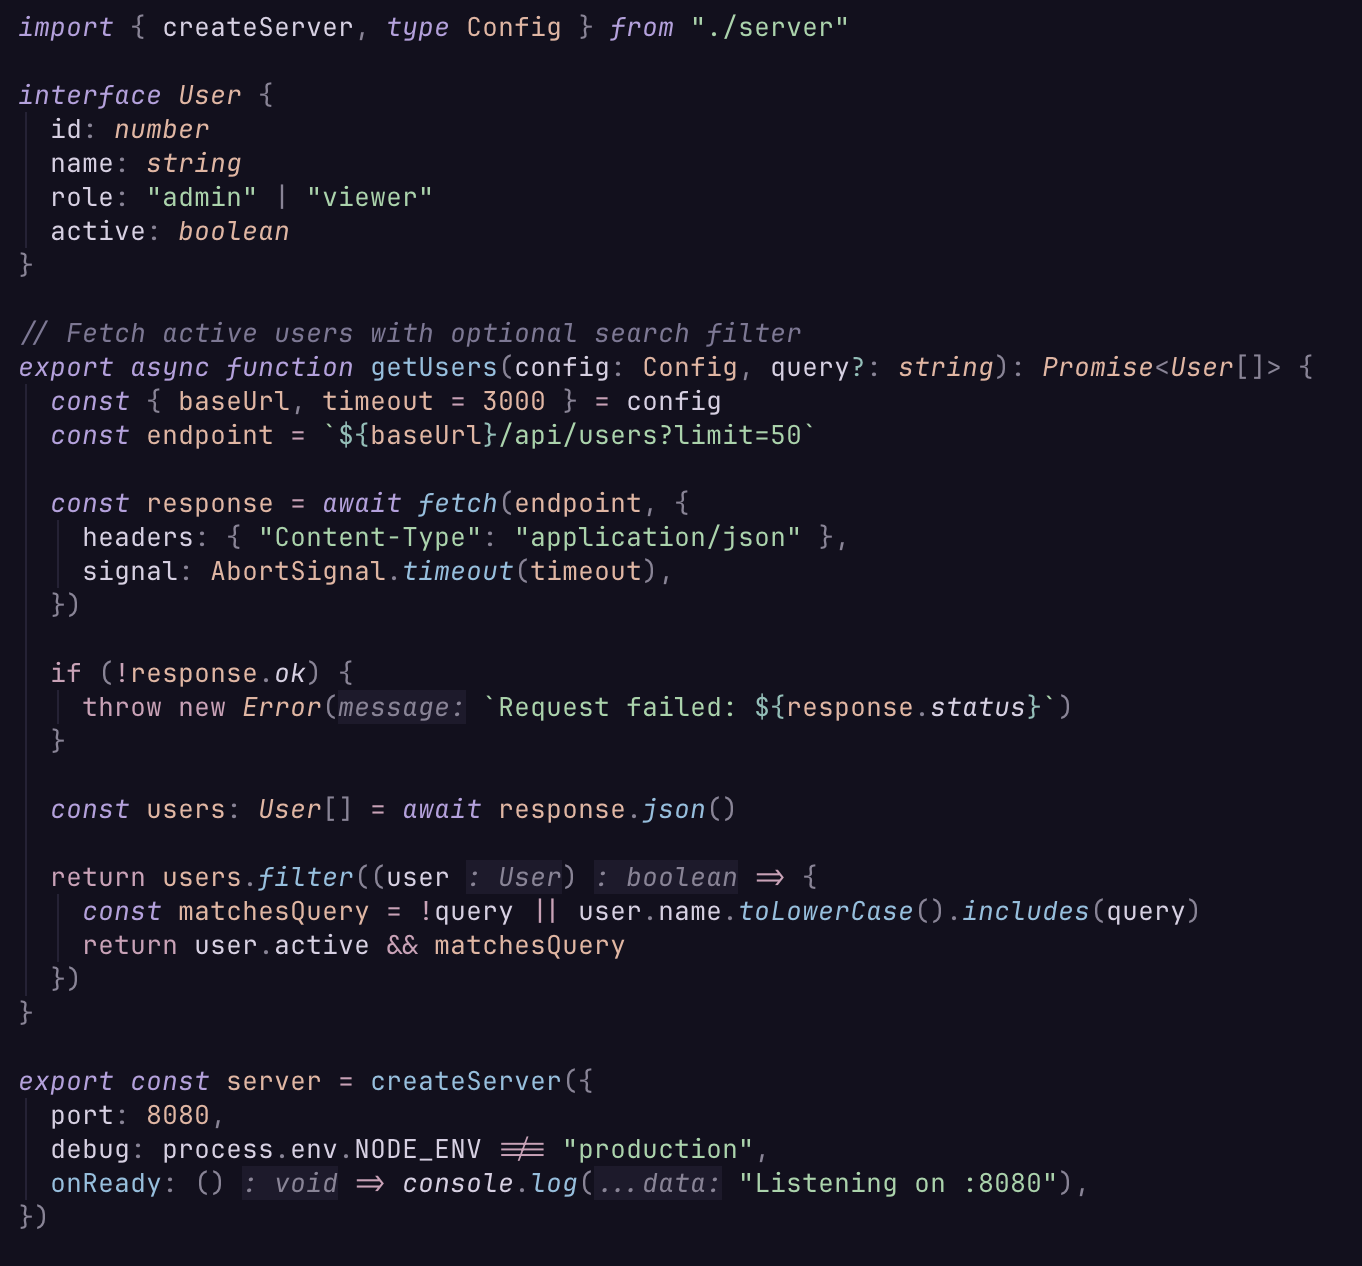
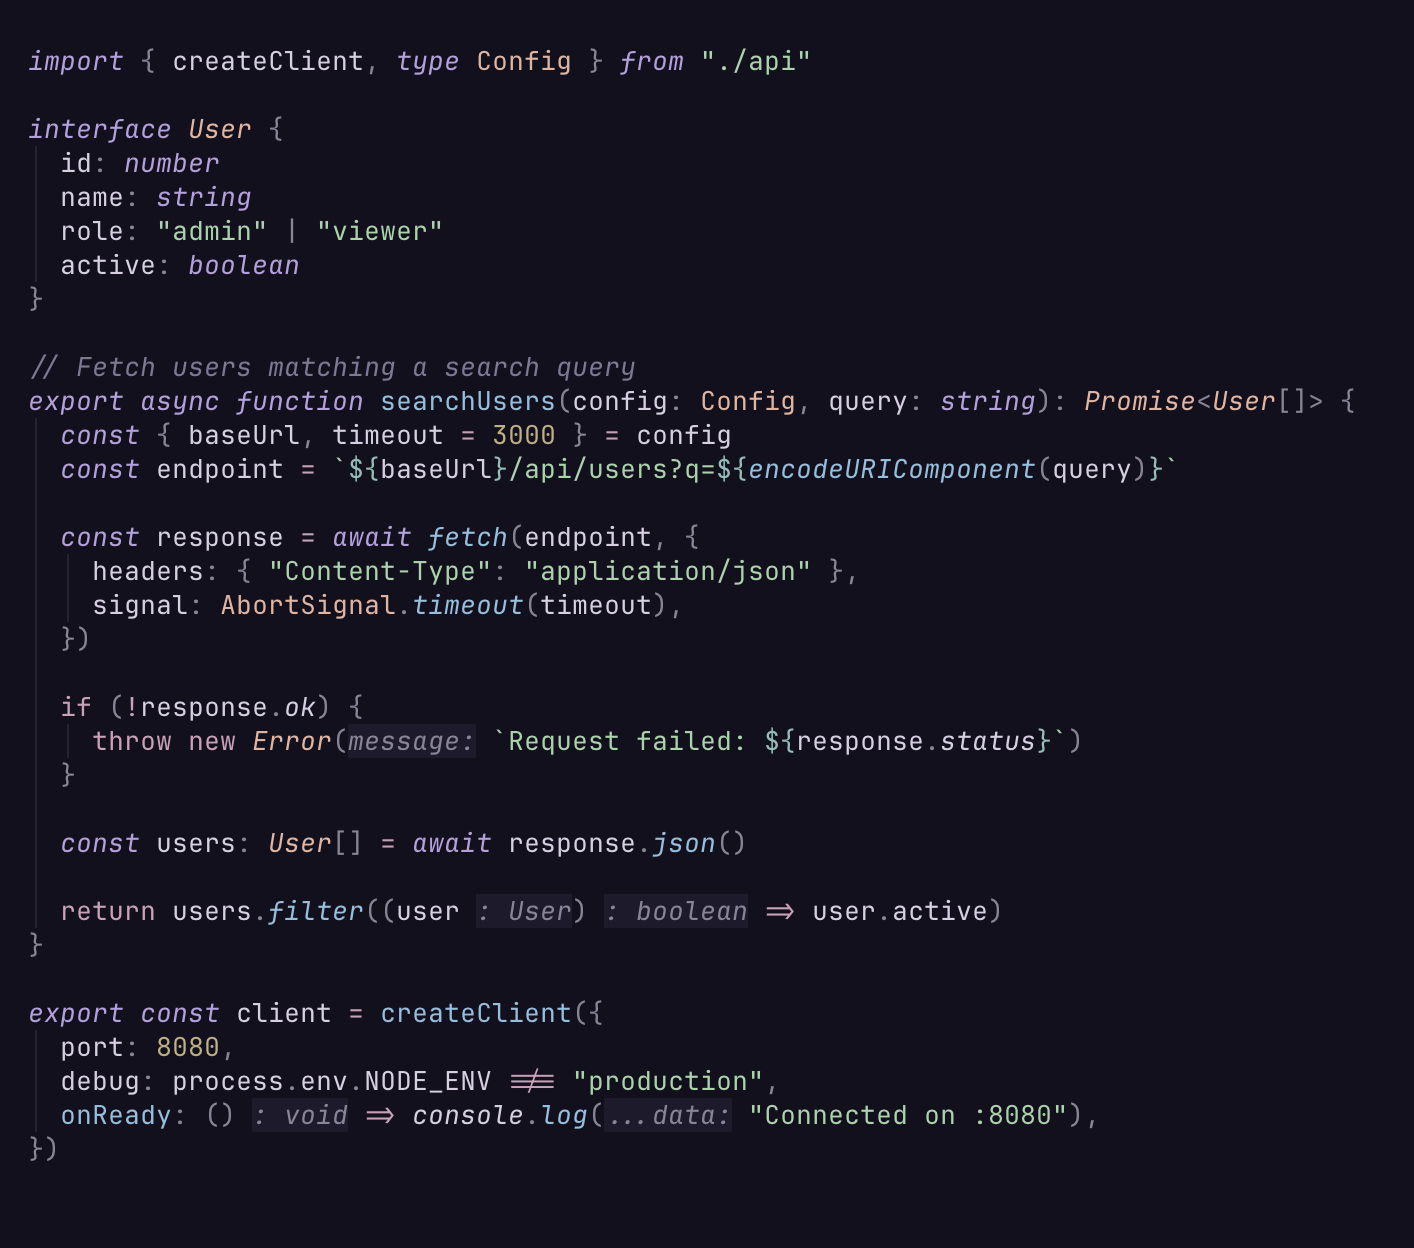
Update screenshot, example code, and README palette descriptions
- Replace example.ts with example.tsx showcasing JSX color variety
- Fix logic issue in example (server-side search, client-side active filter)
- Update palette descriptions to match current color assignments
- Add snacks.nvim to plugin support table
- Fix vsix filename in install-from-source instructions

diff --git a/assets/example.tsx b/assets/example.tsx
@@ -1,4 +1,4 @@
-import { createServer, type Config } from "./server"
+import { createClient, type Config } from "./api"
 
 interface User {
   id: number
@@ -7,10 +7,10 @@ interface User {
   active: boolean
 }
 
-// Fetch active users with optional search filter
-export async function getUsers(config: Config, query?: string): Promise<User[]> {
+// Fetch users matching a search query
+export async function searchUsers(config: Config, query: string): Promise<User[]> {
   const { baseUrl, timeout = 3000 } = config
-  const endpoint = `${baseUrl}/api/users?limit=50`
+  const endpoint = `${baseUrl}/api/users?q=${encodeURIComponent(query)}`
 
   const response = await fetch(endpoint, {
     headers: { "Content-Type": "application/json" },
@@ -23,14 +23,11 @@ export async function getUsers(config: Config, query?: string): Promise<User[]> 
 
   const users: User[] = await response.json()
 
-  return users.filter((user) => {
-    const matchesQuery = !query || user.name.toLowerCase().includes(query)
-    return user.active && matchesQuery
-  })
+  return users.filter((user) => user.active)
 }
 
-export const server = createServer({
+export const client = createClient({
   port: 8080,
   debug: process.env.NODE_ENV !== "production",
-  onReady: () => console.log("Listening on :8080"),
+  onReady: () => console.log("Connected on :8080"),
 })

diff --git a/README.md b/README.md
@@ -31,7 +31,7 @@
       <img src="https://placehold.co/24x24/b8a0e0/b8a0e0.png" alt="" /><br />
       <strong>Lavender</strong><br />
       <code>#b8a0e0</code><br />
-      <sub>keywords, primary</sub>
+      <sub>keywords, primitives</sub>
     </td>
     <td>
       <img src="https://placehold.co/24x24/d0a0b8/d0a0b8.png" alt="" /><br />
@@ -43,7 +43,7 @@
       <img src="https://placehold.co/24x24/e8b4a0/e8b4a0.png" alt="" /><br />
       <strong>Peach</strong><br />
       <code>#e8b4a0</code><br />
-      <sub>types, constants</sub>
+      <sub>types, components</sub>
     </td>
     <td>
       <img src="https://placehold.co/24x24/a0d4a8/a0d4a8.png" alt="" /><br />
@@ -57,13 +57,13 @@
       <img src="https://placehold.co/24x24/8cc0e0/8cc0e0.png" alt="" /><br />
       <strong>Sky</strong><br />
       <code>#8cc0e0</code><br />
-      <sub>functions, methods</sub>
+      <sub>functions, props</sub>
     </td>
     <td>
       <img src="https://placehold.co/24x24/88c0b8/88c0b8.png" alt="" /><br />
       <strong>Teal</strong><br />
       <code>#88c0b8</code><br />
-      <sub>special, escape</sub>
+      <sub>tags, escape</sub>
     </td>
     <td>
       <img src="https://placehold.co/24x24/c49080/c49080.png" alt="" /><br />
@@ -75,7 +75,7 @@
       <img src="https://placehold.co/24x24/c4b080/c4b080.png" alt="" /><br />
       <strong>Honey</strong><br />
       <code>#c4b080</code><br />
-      <sub>warnings, search</sub>
+      <sub>numbers, warnings</sub>
     </td>
   </tr>
 </table>
@@ -155,7 +155,7 @@ Highlight groups are included for these plugins (loaded automatically, no config
 | [mini.nvim](https://github.com/echasnovski/mini.nvim) | [noice.nvim](https://github.com/folke/noice.nvim) | [nvim-notify](https://github.com/rcarriga/nvim-notify) |
 | [trouble.nvim](https://github.com/folke/trouble.nvim) | [flash.nvim](https://github.com/folke/flash.nvim) | [neo-tree.nvim](https://github.com/nvim-neo-tree/neo-tree.nvim) |
 | [oil.nvim](https://github.com/stevearc/oil.nvim) | [lazy.nvim](https://github.com/folke/lazy.nvim) | [which-key.nvim](https://github.com/folke/which-key.nvim) |
-| [indent-blankline.nvim](https://github.com/lukas-reineke/indent-blankline.nvim) | [dashboard-nvim](https://github.com/nvimdev/dashboard-nvim) / [alpha-nvim](https://github.com/goolord/alpha-nvim) | |
+| [indent-blankline.nvim](https://github.com/lukas-reineke/indent-blankline.nvim) | [dashboard-nvim](https://github.com/nvimdev/dashboard-nvim) / [alpha-nvim](https://github.com/goolord/alpha-nvim) | [snacks.nvim](https://github.com/folke/snacks.nvim) |
 
 ---
 
@@ -173,7 +173,7 @@ code --install-extension DanielFry.lume-color-theme
 ```bash
 cd editors/vscode
 npx @vscode/vsce package
-code --install-extension lume-0.1.0.vsix
+code --install-extension lume-color-theme-*.vsix
 ```
 
 </details>
